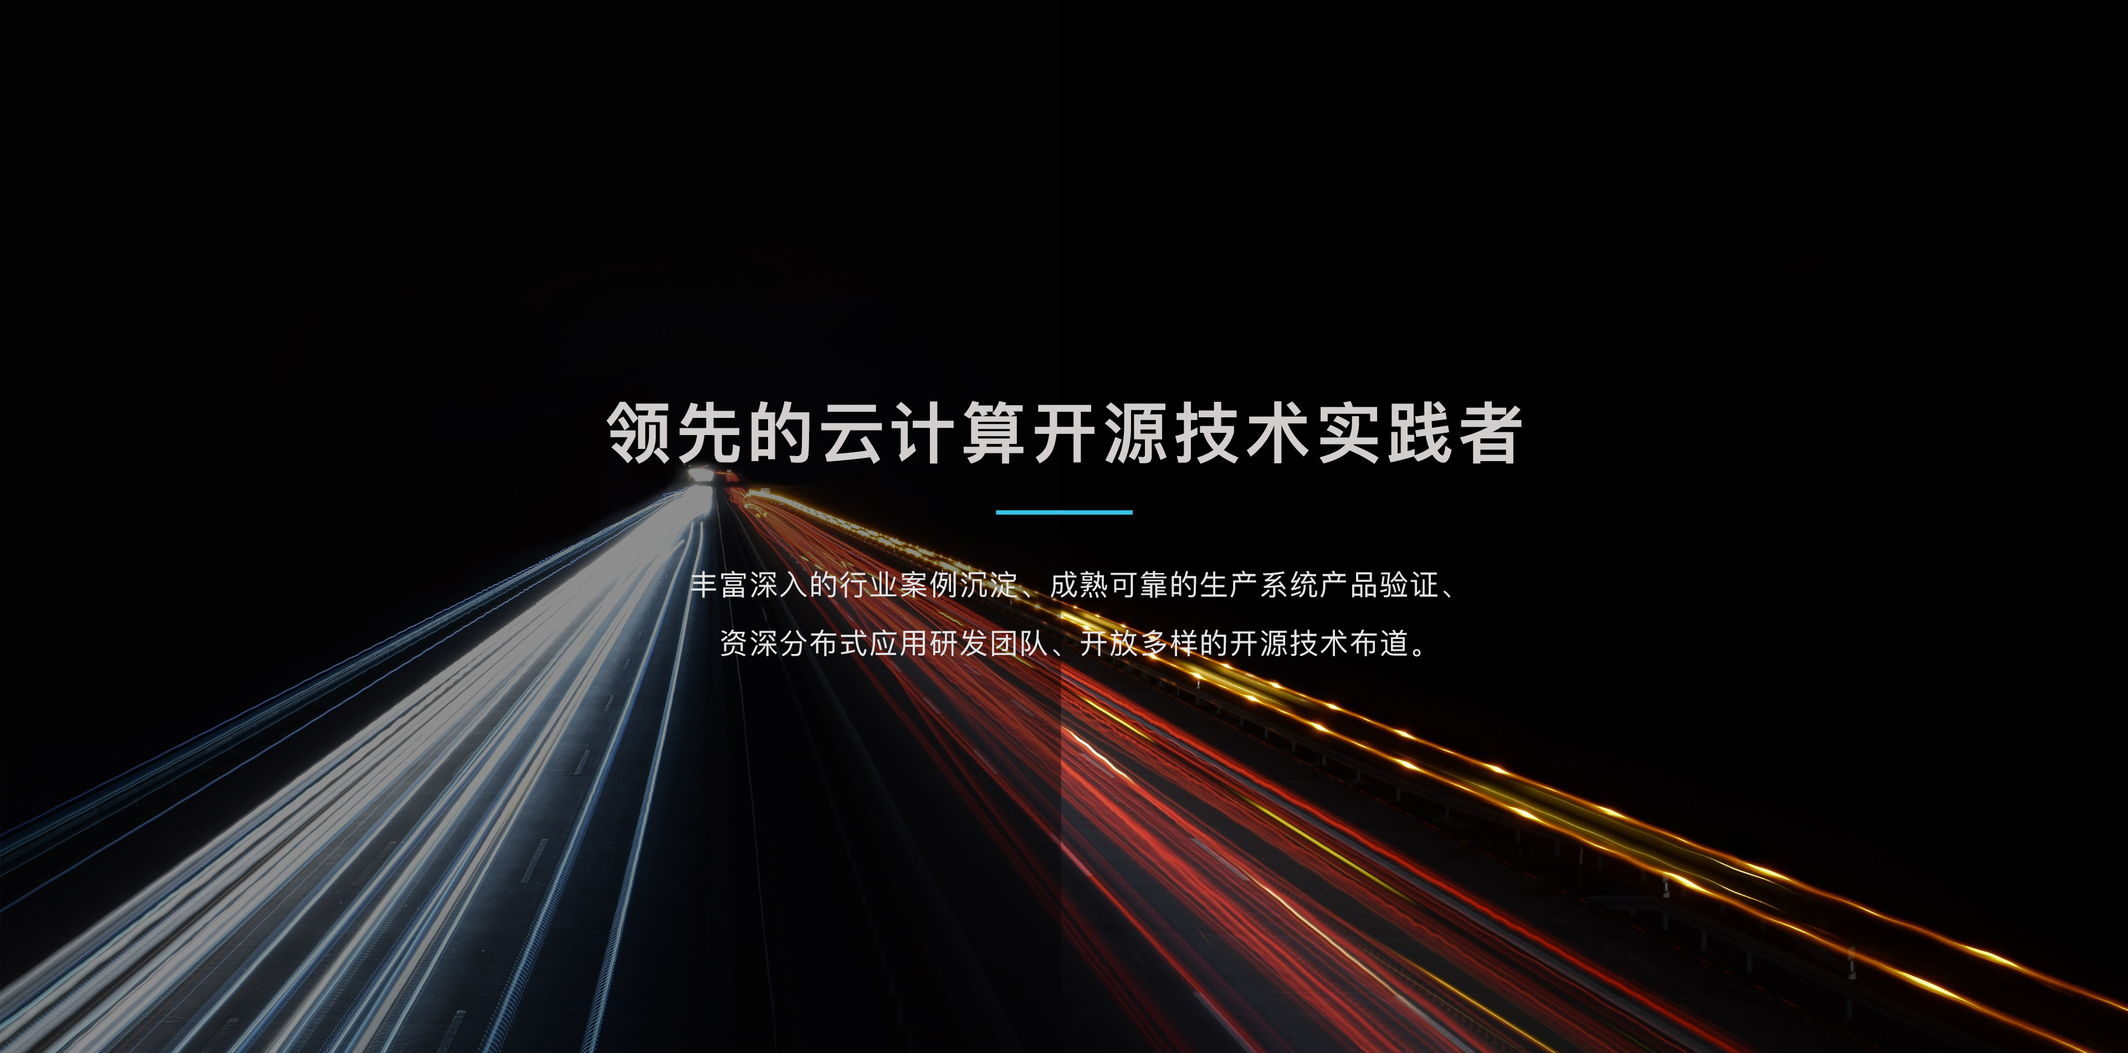
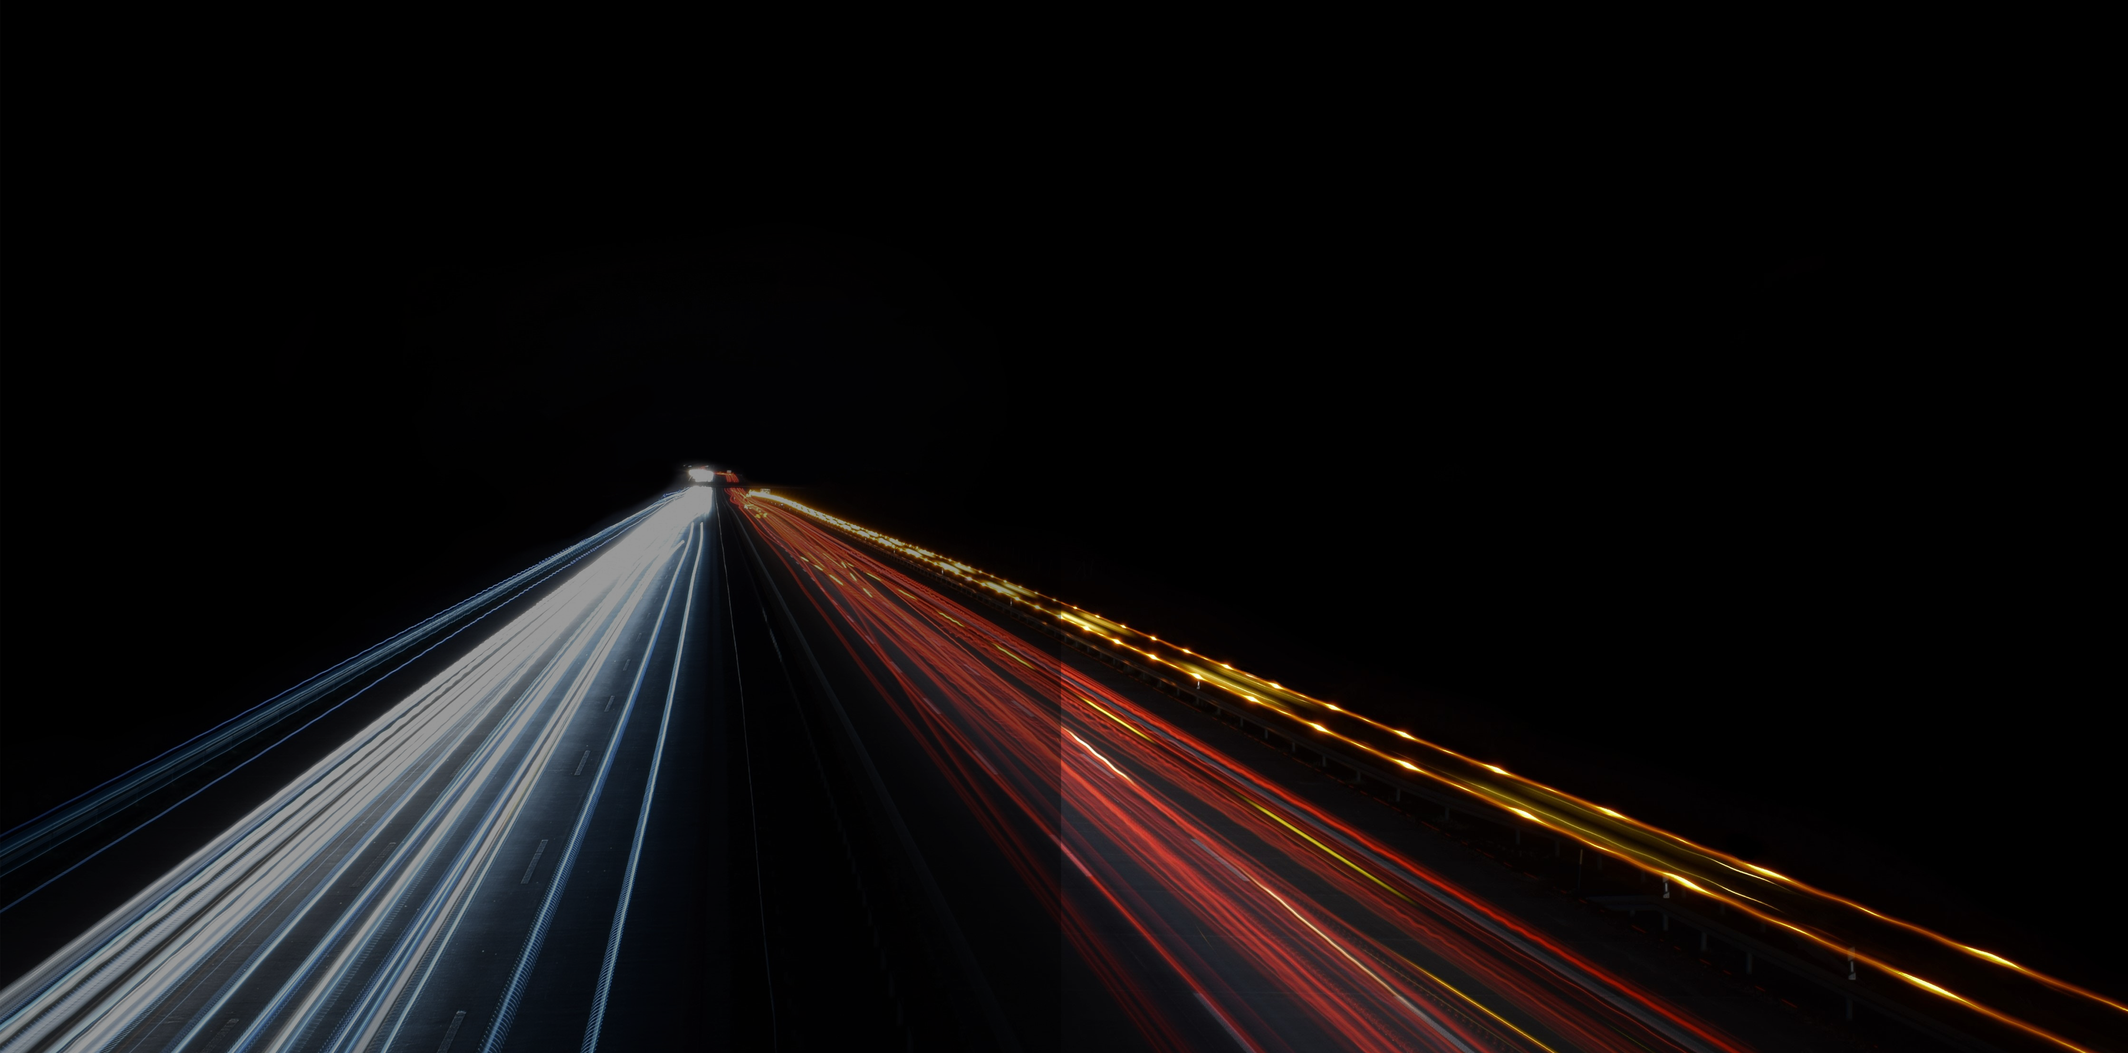
Home page text changes

diff --git a/static_views/index.html b/static_views/index.html
@@ -23,28 +23,31 @@
                             <div class="header-container">
                                 <h1>构建灵动新IT</h1>
                                 <h2>数人云 - 极轻量化 P a a S 平台</h2>
-                                <h3 style="display:none">The Ultimate Flexibility</h3>
-                                <div class="row version-btn">
-                                    <div class="dropdown group-btn enterprise" id="enterprise">
+                                <ul class="row version-btn">
+                                    <li class="dropdown group-btn enterprise" id="enterprise">
                                         <a type="button" class="btn dropdown-toggle btn-index-color"
                                            id="home-btn-register"
-                                           data-toggle="dropdown" aria-haspopup="true" aria-expanded="true"
-                                           title="数人云 DM/OS 数据中心操作系统">
+                                           data-toggle="dropdown" aria-haspopup="true" aria-expanded="true">
                                             企业版
                                         </a>
                                         <ul class="dropdown-menu enterprise-menu" id="enterprise-menu"
-                                            aria-labelledby="dropdownMenu1"
-                                            style="min-width: 125px;width: 100%;">
+                                            aria-labelledby="dropdownMenu1">
                                             <li><a href="./product.html">数人云 DM/OS</a></li>
                                             <li><a href="./octopus.html">分布式任务调度</a></li>
+                                            <li><a href="./squid.html">高并发微服务平台</a></li>
                                         </ul>
-                                    </div>
-                                    <div class="group-btn">
-                                        <a type="button" class="btn btn-index-none"
-                                           href="https://www.shurenyun.com/product-swan.html"
-                                           id="home-btn-demo" title="数人云 Mesos 调度器 Swan">工具版</a>
-                                    </div>
-                                </div>
+                                    </li>
+                                    <li class="dropdown group-btn open" id="open">
+                                        <a type="button" class="btn dropdown-toggle btn-index-none"
+                                           id="home-btn-demo" aria-haspopup="true" aria-expanded="false" data-toggle="dropdown">开源版
+                                        </a>
+                                        <ul class="dropdown-menu open-menu" id="open-menu"
+                                            aria-labelledby="dropdownMenu1" style="display: none">
+                                            <li><a href="./product-crane.html">容器管理面板 Crane</a></li>
+                                            <li><a href="./product-swan.html">Mesos 调度器 Swan</a></li>
+                                        </ul>
+                                    </li>
+                                </ul>
                             </div>
                         </header>
                     </div>
@@ -53,8 +56,11 @@
                     <div class="carousel-caption">
                         <header class="header-index header-index-banner2">
                             <div class="header-container">
+                                <h1>领先的云计算开源技术实践者</h1>
+                                <hr>
+                                <p>丰富深入的行业案例沉淀、成熟可靠的生产系统产品验证、</p>
+                                <p>资深分布式应用研发团队、开放多样的开源技术布道。</p>
                             </div>
-                            <div class="starfield"></div>
                         </header>
                     </div>
                 </div>
@@ -62,9 +68,9 @@
                     <div class="carousel-caption">
                         <header class="header-index header-index-banner3">
                             <div class="header-container">
-                                <h3 style="display:none">The Ultimate Flexibility</h3>
+                                <h1><span class="header-tit">EAMS</span><span class="bar"></span><span class="header-text">企业应用<br>架构管理系统</span></h1>
+                                <p>全面升级为EAMS企业应用架构管理体系，助力企业向新IT架构转型</p>
                             </div>
-                            <div class="starfield"></div>
                         </header>
                     </div>
                 </div>
@@ -84,6 +90,9 @@
         </div>
         <footer><a href="#product-feature"><img class="img-up-down" src="pics/squid/squid-decline.png"
                                                 width="134px"></a></footer>
+        <!--<div class="starfield">-->
+            <!--<canvas class="starfield" width="1400" height="650"></canvas>-->
+        <!--</div>-->
     </header>
 
     <section class="scenarios" style="background-color: #FFFFFF;">
@@ -141,11 +150,11 @@
             <h1 class="title-size">企业应用管理架构</h1>
             <div class="emas-center-round">
                 <div class="emas-text emas-octopus">
-                    <h5><a href="#">Octopus</a></h5>
+                    <h5><a href="./octopus.html">Octopus</a></h5>
                     <p>高效可靠的弹性调度云， 让你的任务更灵活自如。</p>
                 </div>
                 <div class="emas-text emas-squid">
-                    <h5><a href="#">Squid</a></h5>
+                    <h5><a href="./squid.html">Squid</a></h5>
                     <p>灵活高效的一体化微服务平台， 轻松应对高并发。</p>
                 </div>
                 <div class="emas-text emas-container">
@@ -165,8 +174,8 @@
                 </div>
                 <div class="emas-round">
                     <img src="pics/index-emas-logo.png">
-                    <h3>EMAS</h3>
-                    <P>数人云企业应用架构管理（EAMS）体系，旨在 帮助企业保持传统IT优势的同时，赋以 更好的敏捷性和自动化，跨过 两者的鸿沟。</P>
+                    <h3>EAMS</h3>
+                    <P>数人云企业应用架构管理（EAMS）体系，旨在帮助企业保持传统IT优势的同时，赋以更好的敏捷性和自动化，跨过两者的鸿沟。</P>
                 </div>
             </div>
         </div>
@@ -185,7 +194,7 @@
                                 </div>
                                 <div class="dmos-text">
                                     <h5 class="dmos-title">权限管理</h5>
-                                    <p>根据企业规模、自定义用户组，实现不同 机构成员之间的协作与隔离</p>
+                                    <p>根据企业规模、自定义用户组，实现不同机构成员之间的协作与隔离</p>
                                 </div>
                             </div>
                             <div class="col-xs-6 col-md-3 index-dmos-item">
@@ -194,7 +203,7 @@
                                 </div>
                                 <div class="dmos-text">
                                     <h5>多级监控</h5>
-                                    <p>针对平台、资源、应用的不同需求，提供 多级监控方式，快速查看CPU、内存、IO 等多项指标</p>
+                                    <p>针对平台、资源、应用的不同需求，提供多级监控方式，快速查看CPU、内存、IO 等多项指标</p>
                                 </div>
                             </div>
                             <div class="col-xs-6 col-md-3 index-dmos-item">
@@ -203,7 +212,7 @@
                                 </div>
                                 <div class="dmos-text">
                                     <h5>日志收集及展示</h5>
-                                    <p>收集标准输出日志及文件日志，并提供集 中统一的日志查询与展示环境</p>
+                                    <p>收集标准输出日志及文件日志，并提供集中统一的日志查询与展示环境</p>
                                 </div>
                             </div>
                             <div class="col-xs-6 col-md-3 index-dmos-item">
@@ -212,7 +221,7 @@
                                 </div>
                                 <div class="dmos-text">
                                     <h5>弹性扩容</h5>
-                                    <p>定义扩容策略，通过增加或删减容器实例 来实现业务能力的弹性伸缩，快速应对业 务突发增长</p>
+                                    <p>定义扩容策略，通过增加或删减容器实例来实现业务能力的弹性伸缩，快速应对业 务突发增长</p>
                                 </div>
                             </div>
                         </div>
@@ -403,7 +412,7 @@
                     <li class="col-md-12 experience-introduce">
                         <h4>某大型证券交易所</h4>
                         <p>完成开发、集成、仿真、预发布生产五大环境建设</p>
-                        <p>实现界面化部署和细粒度的资源分配，</p>
+                        <p>实现界面化部署和细粒度的资源分配</p>
                         <p>构建对进群、主机、进程多层监控体系</p>
                         <p>一期借助容器云搭建端到端高效软件过程平台，实现 CI/CD</p>
                         <p>二期着重改进优化各功能模块，新增测试类型</p>

diff --git a/common_views/footer.html b/common_views/footer.html
@@ -38,26 +38,15 @@
                 <ul class="column">
                     <li class="col-md-12 col-xs-6">
                         <h1 class="footer-align">销售咨询</h1>
-                        <p class="footer-align">销售经理为您解答 报价、部署实施方案的各种问题。</p>
-                        <p class="footer-align">+86 10 64776698</p>
+                        <p class="footer-align">销售顾问为您解答报价、部署实施方案的各种问题。</p>
+                        <p class="footer-align">info@dataman-inc.com</p>
                     </li>
                     <li class="col-md-12 col-xs-6">
                         <h1 class="footer-align">技术咨询</h1>
-                        <p class="footer-align">遇到任何技术问题，都可以直接电话获得技术支持。也可发送邮件与我们联系。</p>
-                    </li>
-                    <li class="col-md-12 col-xs-6" style="padding: 0">
-                        <ul class="row" style="padding: 0">
-                            <li class="col-md-6 col-xs-6">
-                                <h1>容器相关</h1>
-                                <p>+86 10 64776698</p>
-                                <p>info@shurenyun.com</p>
-                            </li>
-                            <li class="col-md-6 col-xs-6">
-                                <h1>微服务相关</h1>
-                                <p>+86 10 64776698</p>
-                                <p>info@shurenyun.com</p>
-                            </li>
-                        </ul>
+                        <p class="footer-align">遇到任何产品相关技术问题，都可以直接联系我们进 行技术咨询。</p>
+                        <p class="footer-align">Product@dataman-inc.com</p>
+                        <p class="footer-align">联系电话：+86 10 64776698</p>
+                        <p class="footer-align">或加小数微信：xiaoshu062</p>
                     </li>
                 </ul>
 
@@ -66,17 +55,16 @@
                 <div class="col-md-12 col-sm-6">
                 <h1 class="footer-align">联系我们</h1>
                 <ul class="footer-callme">
-                    <li>电话: +86 10 64776698</li>
+                    <li>电话：+86 10 64776698</li>
                     <li>邮箱: <a href="mailto:info@dataman-inc.com">info@dataman-inc.com</a></li>
                     <li> <strong>北京</strong></li>
-                    <li>朝阳区大望京商务园区宏泰东街浦项中心 A 座 806-807</li>
+                    <li>朝阳区大望京商务园区宏泰东街 浦项中心 A 座806-807</li>
                     <li><strong>广州</strong></li>
-                    <li>广州市天河区长福路 201 号智汇商务中心 AB 座 206-207室</li>
+                    <li>广州市天河区长福路 201 号 智汇商务中心 AB 座206-207室</li>
                 </ul>
             </div>
             </li>
             <li class="col-md-3 col-sm-6 ercode">
-                <h1>加小数微信 xiaoshu062 进微信群交流</h1>
                 <div class="col-md-12 col-sm-6">
                     <dl class="foot-ercode">
                         <dt><img src="./pics/wechat/shurenyun-dingyuehao.jpg" alt="数人云订阅号"></dt>

diff --git a/static_views/squid.html b/static_views/squid.html
@@ -13,7 +13,7 @@
         <h1>数人高并发微服务云平台</h1>
         <h2>灵活高效的一体化微服务平台，轻松应对高并发</h2>
         <form style="margin-top: 30px;">
-            <button class="btn btn-primary" type="button">试用体验</button>
+            <button class="btn btn-primary" type="button" onclick="window.open('http://shurenyun.mikecrm.com/IEPkGK')">试用体验</button>
         </form>
 
         <footer><i class="fa fa-angle-down fa-up-down"></i></footer>
@@ -24,7 +24,7 @@
             <h2>Characteristic</h2>
             <p>
                 <strong>数人高并发微服务云平台 Squid</strong><br>
-                一体化异步微服务平台基于容器云平台打造，支持同步和异步 模式，具有高可用、高并发、无入侵性扩展业务、服务依赖实时 跟踪以及自动
+                一体化异步微服务平台基于容器云平台打造，支持同步和异步模式，具有高可用、高并发、无入侵性扩展业务、服务依赖实时跟踪以及自动
             </p>
         </div>
     </section>
@@ -37,12 +37,12 @@
                 <div class="col-md-6">
                     <img src="pics/squid/squid-2.png">
                     <h3>秒杀抢购</h3>
-                    <p>应对突发流量，避免访问突发性对于既有 资源的破坏性调用</p>
+                    <p>应对突发流量，避免访问突发性对于既有资源的破坏性调用</p>
                 </div>
                 <div class="col-md-6">
                     <img src="pics/squid/squid-3.png">
                     <h3 style="color: #a6d132;">中小型电商化应用</h3>
-                    <p>一体化微服务管理与监控，无需构建庞大复杂 的体系，且能平滑升级到大型微服务系统</p>
+                    <p>一体化微服务管理与监控，无需构建庞大复杂的体系，且能平滑升级到大型微服务系统</p>
                 </div>
             </div>
         </div>

diff --git a/css/shurenyun.css b/css/shurenyun.css
@@ -375,7 +375,9 @@ ul, li {
 	position: relative;
 	width: 170px;
 }
-
+#index .index-eams .emas-center-round .emas-text h5 a{
+	color: #fff;
+}
 #index .index-eams .emas-center-round .emas-text h5:hover a{
 	text-decoration: none;
 	transition: all .5s;
@@ -729,10 +731,10 @@ ul, li {
 	color: #ffffff;
 }
 .header-index h2{
-	color: #b3b3b3;
+	color: #ffffff;
 }
 .carousel-indicators-header{
-	bottom: 130px;
+	bottom: 95px;
 }
 .carousel-indicators-header li{
 	width: 10px;
@@ -765,9 +767,49 @@ ul, li {
 	background: url('../pics/index-banner2.png') no-repeat bottom center;
 	background-size: cover;
 }
+.header-index-banner2 .header-container h1{
+	font-size: 50px;
+}
+.header-index-banner2 .header-container hr{
+	border: 1px solid #3ac2e2;
+	/*color: #3ac2e2;*/
+	width: 80px;
+}
+.header-index-banner2 .header-container p{
+	margin-top: 25px;
+	text-align: center;
+	color: #ffffff;
+	font-weight: normal;
+}
 .header-index-banner3{
 	background: url('../pics/index-banner3.png') no-repeat bottom center;
 	background-size: cover;
+}
+.header-index-banner3 .header-container h1 span{
+	display: inline-block;
+}
+.header-index-banner3 .header-container h1 .bar{
+	border: 3px solid #ffffff;
+	width: 1px;
+	height: 100px;
+	margin: 0 15px;
+}
+.header-index-banner3 .header-container h1 .header-tit{
+	font-size: 150px;
+}
+.header-index-banner3 .header-container h1 .header-text{
+	font-weight: 200;
+	text-align: left;
+	font-size: 40px;
+	line-height: 58px;
+}
+.header-index-banner3 .header-container p{
+	margin: -10px auto;
+	width: 49%;
+	font-size: 37px;
+	text-align: left;
+	color: #ffffff;
+	font-weight: normal;
 }
 .header-container {
 	color: rgba(255,255,255,.9);
@@ -842,7 +884,7 @@ ul, li {
  }
 #header-index footer {
 	text-align: center;
-	bottom: 100px;
+	bottom: 30px;
 	position: relative;
 	width: 100%;
 }

diff --git a/common_views/nav.html b/common_views/nav.html
@@ -70,9 +70,8 @@
                     <li>
                         <a href="./price.html">价格</a>
                     </li>
-
                     <li>
-                        <a href="http://blog.shurenyun.com/" target="_blank">博客</a>
+                        <a href="http://open.shurenyun.com/" target="_blank">社区</a>
                     </li>
                     <li class="dropdown dropdown-solution" id="solution">
                         <a class="dropdown-about dropdown" href="#" aria-haspopup="true" aria-expanded="false">关于 <span
@@ -86,7 +85,7 @@
                             <li><a target="_blank" href="http://www.lagou.com/gongsi/j37868.html">招聘</a></li>
                             <li role="separator" class="divider"></li>
                             <li class="dropdown-header">动态</li>
-                            <li><a href="http://open.shurenyun.com/" target="_blank">社区</a></li>
+                            <li><a href="http://blog.shurenyun.com/" target="_blank">博客</a></li>
                             <li><a href="./about-activity.html">Meetup</a></li>
                             <li><a href="./about-meeting.html">会议</a></li>
                             <li><a href="./about-news.html">新闻报道</a></li>

diff --git a/common.js b/common.js
@@ -46,6 +46,7 @@
                 $('#solution-menu').hide();
                 $('#product-dropdown-menu').hide();
                 $('#enterprise-menu').hide();
+                $('#open-menu').hide();
             });
             $('#dropdown-menu').bind("mouseleave", null, function () {
                 $('#dropdown-menu').hide();
@@ -73,6 +74,21 @@
 
             $('#enterprise-menu').bind("mouseleave", null, function () {
                 $('#enterprise-menu').hide();
+            });
+
+
+            $('#open').on("mouseover", function () {
+                $('#open-menu').show();
+                $('#dropdown-menu').hide();
+                $('#product-dropdown-menu').hide();
+            });
+
+            $('#open').on("mouseleave", function () {
+                $('#open-menu').hide();
+            });
+
+            $('#open-menu').bind("mouseleave", null, function () {
+                $('#open-menu').hide();
             });
 
             $('#product-dropdown').on("mouseover", function () {

diff --git a/static_views/product.html b/static_views/product.html
@@ -7,7 +7,7 @@
 <div id="product">
     <header class="header-index header-index-h1">
         <h1>数人云DM/OS</h1>
-        <h2>将应用弹性做到极致的轻量 PaaS 平台</h2>
+        <h2 style="color: #ffffff">将应用弹性做到极致的轻量 PaaS 平台</h2>
         <h4>使用数人云 DM/OS 数据中心操作系统，可像用单机电脑一样管理集群和云端应用。<br>
             一键伸缩，满足业务快速增长需求。<br>
             一键部署 Docker 容器应用和 Spark 等分布式应用，快速搭建微服务和大数据生产环境。</h4>
